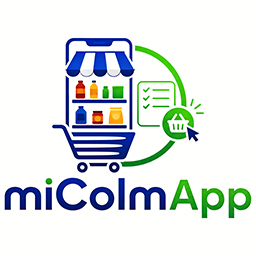
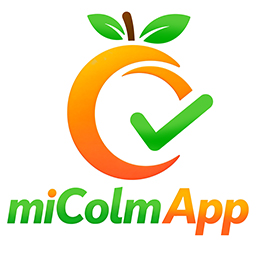
Add files via upload

diff --git a/index.html b/index.html
@@ -7,7 +7,7 @@
   <meta name="format-detection" content="telephone=no, date=no, email=no, address=no">
   <meta name="apple-mobile-web-app-capable" content="yes">
   <title>miColmApp – Pedidos</title>
-  <link rel="icon" type="image/png" href="./img/micolmapp_logo_solo_blanco.png">
+  <link rel="icon" type="image/png" href="./img/micolmapp_logo_favico.png">
 
   <!-- ── Open Graph / Meta para compartir ── -->
   <meta property="og:type"        content="website">
@@ -3565,8 +3565,19 @@ background: #0000008c;
       document.getElementById(`screen-${name}`).classList.add('active');
     }
 
+    // Timestamp de inicio de carga (siempre al cargar la página)
+    const _loadingStart = Date.now();
+    const _loadingMin = 3000; // 3 segundos mínimos
+
     function ocultarLoading() {
-      document.getElementById('loading-screen').style.display = 'none';
+      const elapsed = Date.now() - _loadingStart;
+      const remaining = Math.max(0, _loadingMin - elapsed);
+      setTimeout(() => {
+        const ls = document.getElementById('loading-screen');
+        ls.style.transition = 'opacity .4s ease';
+        ls.style.opacity = '0';
+        setTimeout(() => { ls.style.display = 'none'; }, 400);
+      }, remaining);
     }
 
     function mostrarError(msg) {